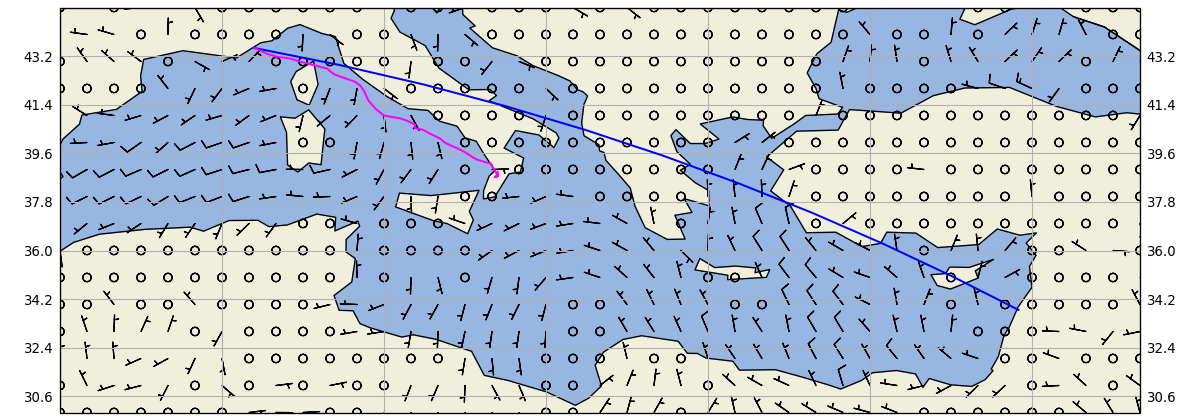
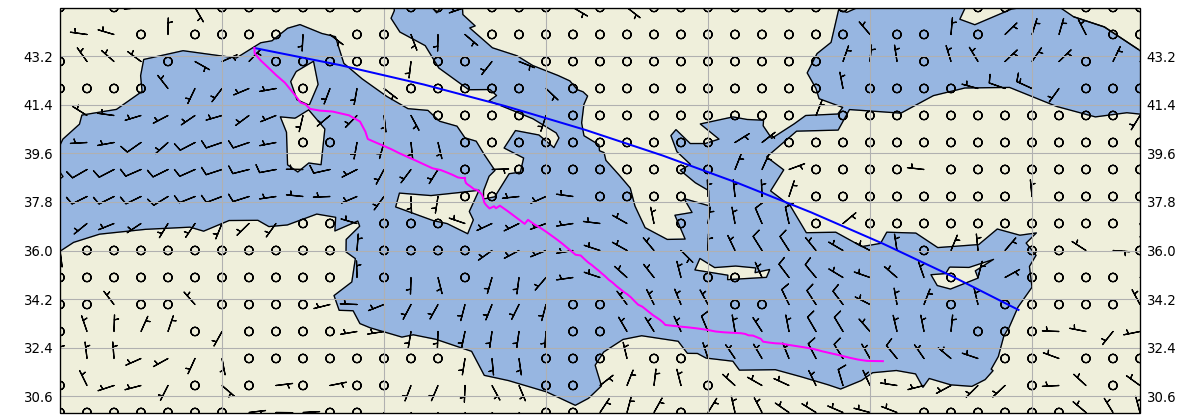
changed parameters for land avoidance

diff --git a/console.py b/console.py
@@ -20,11 +20,11 @@ if __name__ == "__main__":
 
     boat = polars.boat_properties(boatfile)
     params = {
-        'ROUTER_HDGS_SEGMENTS': 360,
-        'ROUTER_HDGS_INCREMENTS_DEG': 0.5,
+        'ROUTER_HDGS_SEGMENTS': 180,
+        'ROUTER_HDGS_INCREMENTS_DEG': 1,
         'ISOCHRONE_EXPECTED_SPEED_KTS': 8,
-        'ISOCHRONE_PRUNE_SECTOR_DEG_HALF': 360,
-        'ISOCHRONE_PRUNE_SEGMENTS': 0.5
+        'ISOCHRONE_PRUNE_SECTOR_DEG_HALF': 90,
+        'ISOCHRONE_PRUNE_SEGMENTS': 180
     }
 
     iso = router.routing(
@@ -34,10 +34,4 @@ if __name__ == "__main__":
         delta_time, hours,
         params
     )
-    print(iso)
-    print(time.time() - program_start)
-
-# 6.473351240158081s
-# 6.990983009338379s
-# 7.363748073577881s
-# 6.467334270477295s
+    print("Completed in {:4.4f} s".format(time.time() - program_start))

diff --git a/config.py b/config.py
@@ -28,5 +28,5 @@ DEFAULT_GFS_MODEL = '2020111600'
 ROUTER_HDGS_SEGMENTS = 180
 ROUTER_HDGS_INCREMENTS_DEG = 1
 ISOCHRONE_EXPECTED_SPEED_KTS = 8
-ISOCHRONE_PRUNE_SECTOR_DEG_HALF = 18
-ISOCHRONE_PRUNE_SEGMENTS = 10
+ISOCHRONE_PRUNE_SECTOR_DEG_HALF = 90
+ISOCHRONE_PRUNE_SEGMENTS = 180
